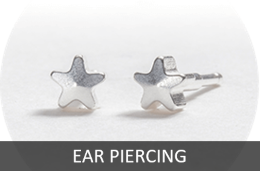
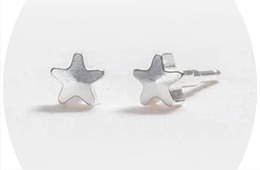
Remove wedding page

diff --git a/src/views/Home.vue b/src/views/Home.vue
@@ -47,28 +47,28 @@
     </div>
     <div class="columns mb-5 px-5 is-marginless-mobile is-paddingless-mobile">
       <div class="column thumb p-5">
-        <router-link to="/hair">
-          <b-image
-            :src="require('@/assets/thumbs/oliver-joseph-hair-thumb.png')"
-            alt="Oliver Joseph Hair"
-          />
-        </router-link>
+        <Thumbnail
+          :src="require('@/assets/thumbs/oliver-joseph-hair-thumb.png')"
+          link="/hair"
+          caption="Hair"
+          alt="Oliver Joseph Hair"
+        />
       </div>
       <div class="column thumb p-5">
-        <router-link to="/ear-piercing">
-          <b-image
-            :src="require('@/assets/thumbs/oliver-joseph-piercing-thumb.png')"
-            alt="Oliver Joseph Beauty"
-          />
-        </router-link>
+        <Thumbnail
+          :src="require('@/assets/thumbs/oliver-joseph-piercing-thumb.png')"
+          link="/ear-piercing"
+          caption="Ear Piercing"
+          alt="Oliver Joseph Ear Piercing"
+        />
       </div>
       <div class="column thumb p-5">
-        <router-link to="/wedding">
-          <b-image
-            :src="require('@/assets/thumbs/oliver-joseph-wedding-thumb.jpg')"
-            alt="Oliver Joseph Wedding"
-          />
-        </router-link>
+        <Thumbnail
+          :src="require('@/assets/thumbs/oliver-joseph-contact-us-thumb.png')"
+          link="/contact-us"
+          caption="Contact Us"
+          alt="Oliver Joseph Contact Us"
+        />
       </div>
     </div>
     <div>
@@ -109,6 +109,7 @@
 import Carousel from "@/components/data/Carousel.vue";
 import OpeningTimes from "@/components/data/OpeningTimes.vue";
 import EarPiercingCard from "../components/data/EarPiercingCard.vue";
+import Thumbnail from "../components/data/Thumbnail.vue";
 
 export default {
   name: "Home",
@@ -116,6 +117,7 @@ export default {
     Carousel,
     OpeningTimes,
     EarPiercingCard,
+    Thumbnail,
   },
   data() {
     return {

diff --git a/src/components/data/Thumbnail.vue b/src/components/data/Thumbnail.vue
@@ -1,0 +1,42 @@
+<template>
+  <router-link :to="link">
+    <div class="thumbnail-container">
+      <b-image :src="src" :alt="alt" />
+      <div class="caption">
+        {{ caption }}
+      </div>
+    </div>
+  </router-link>
+</template>
+
+<script>
+export default {
+  props: {
+    src: String,
+    caption: String,
+    alt: String,
+    link: String,
+  },
+};
+</script>
+
+<style scoped>
+.thumbnail-container {
+  display: flex;
+  position: relative;
+  width: fit-content;
+}
+
+.caption {
+  position: absolute;
+  bottom: 0;
+  width: 100%;
+  text-align: center;
+  font-weight: 500;
+  font-size: large;
+  color: white;
+  background-color: #000000a0;
+  text-transform: uppercase;
+  padding: 0.1em;
+}
+</style>

diff --git a/src/router/index.js b/src/router/index.js
@@ -4,7 +4,6 @@ import VueRouter from "vue-router";
 import Home from "../views/Home.vue";
 import Hair from "../views/Hair.vue";
 import EarPiercing from "../views/EarPiercing.vue";
-import Wedding from "../views/Wedding.vue";
 import ContactUs from "../views/ContactUs.vue";
 
 Vue.use(VueRouter);
@@ -24,11 +23,6 @@ export const routes = [
     path: "/ear-piercing",
     name: "Ear Piercing",
     component: EarPiercing,
-  },
-  {
-    path: "/wedding",
-    name: "Wedding",
-    component: Wedding,
   },
   {
     path: "/contact-us",
